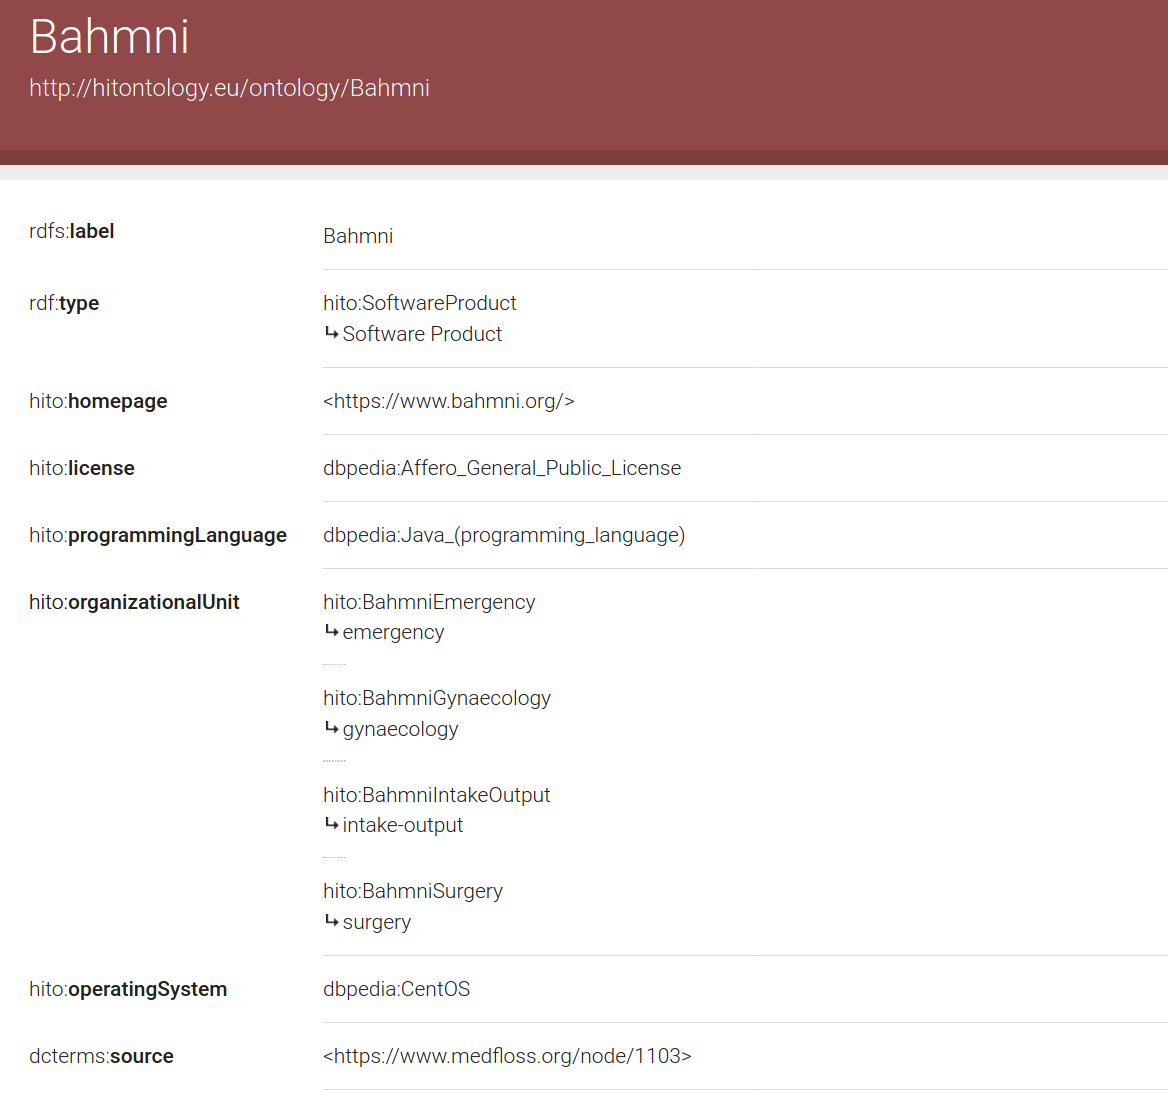
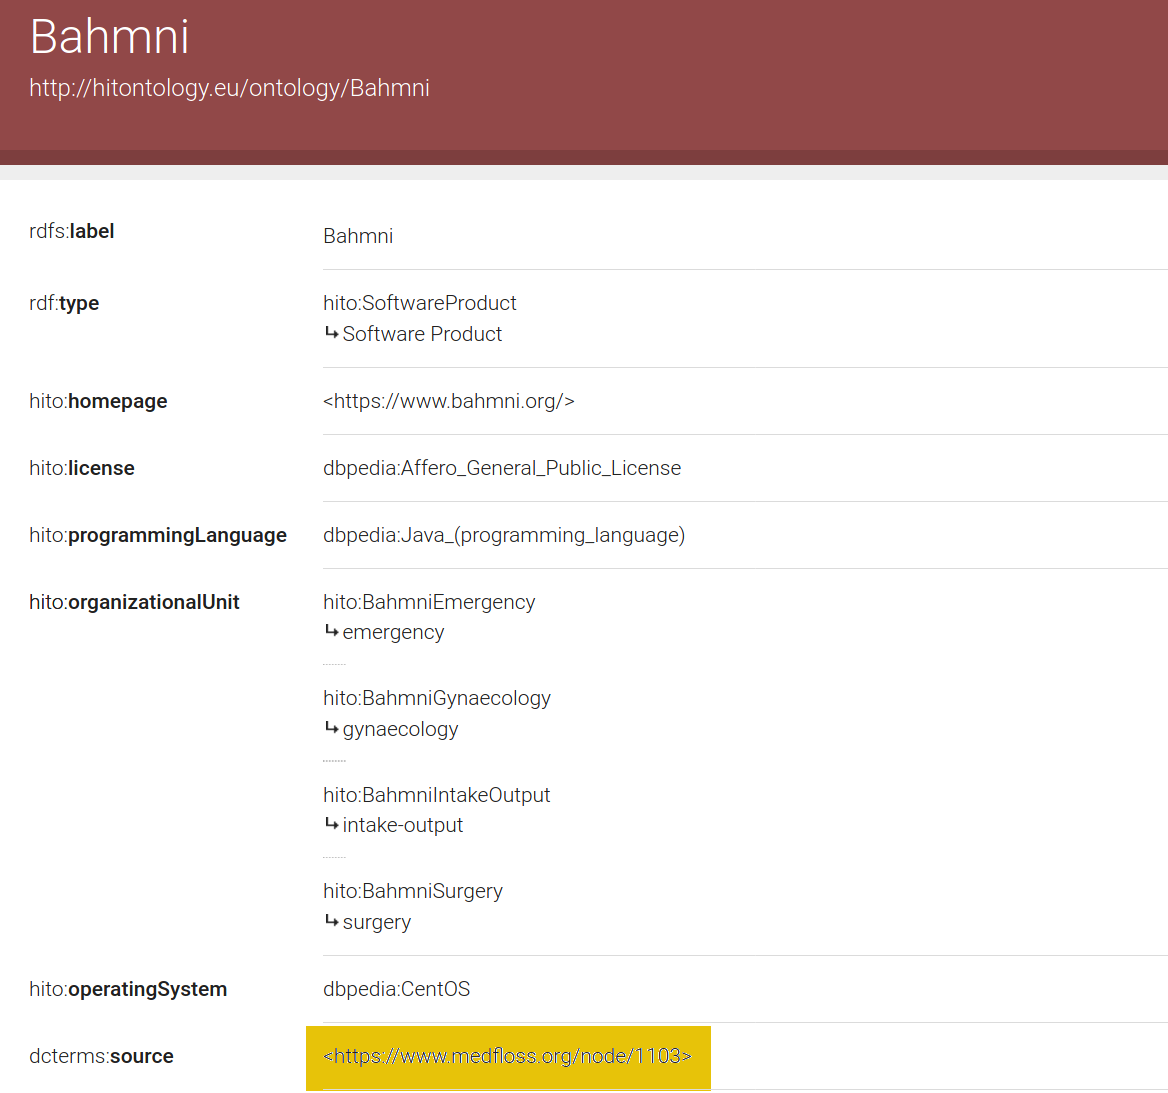
structural finetuning and highlighting in bahmni picture
Former-commit-id: b0b7b5eaf4cf2149da1625e18e39042d4a8ec8ae

Changed region(s): [[0.2466, 0.9332, 0.6164, 1.0]]

diff --git a/beamer/2020/medfloss/presentation_medfloss.tex b/beamer/2020/medfloss/presentation_medfloss.tex
@@ -281,7 +281,7 @@
 \begin{frame}{Quality}
   \vspace{-0.3cm}
   \centering
-  \includegraphics[width=.95\textwidth]{img/qualitychecker.png}
+  \includegraphics[height=.75\textheight]{img/qualitychecker.png}
   \footnotesize{\url{https://hitontology.eu/qualitycheck.html}}
 \end{frame}
 
@@ -309,6 +309,11 @@
   \centering
   \vspace{-0.5cm}
   \includegraphics[width=\textwidth]{img/fragen.png}
+\end{frame}
+
+\begin{frame}{Szenarien für die Integration von medfloss.org und HITO}
+  \centering
+  \huge Konrad's Teil
 \end{frame}
 
 \begin{frame}{Szenario 1: Medfloss.org vollständig ersetzen}
